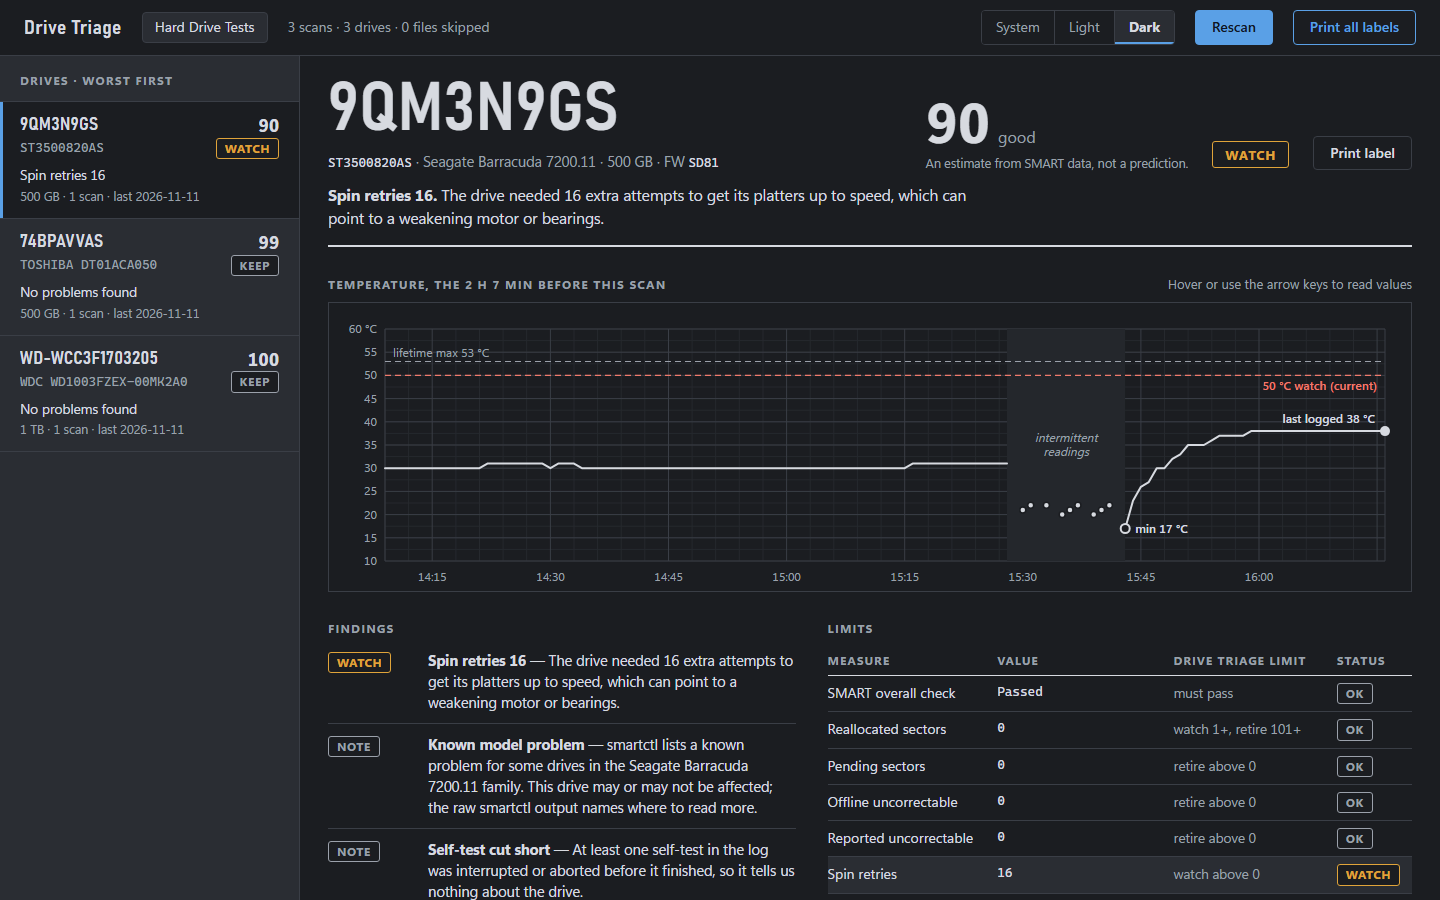
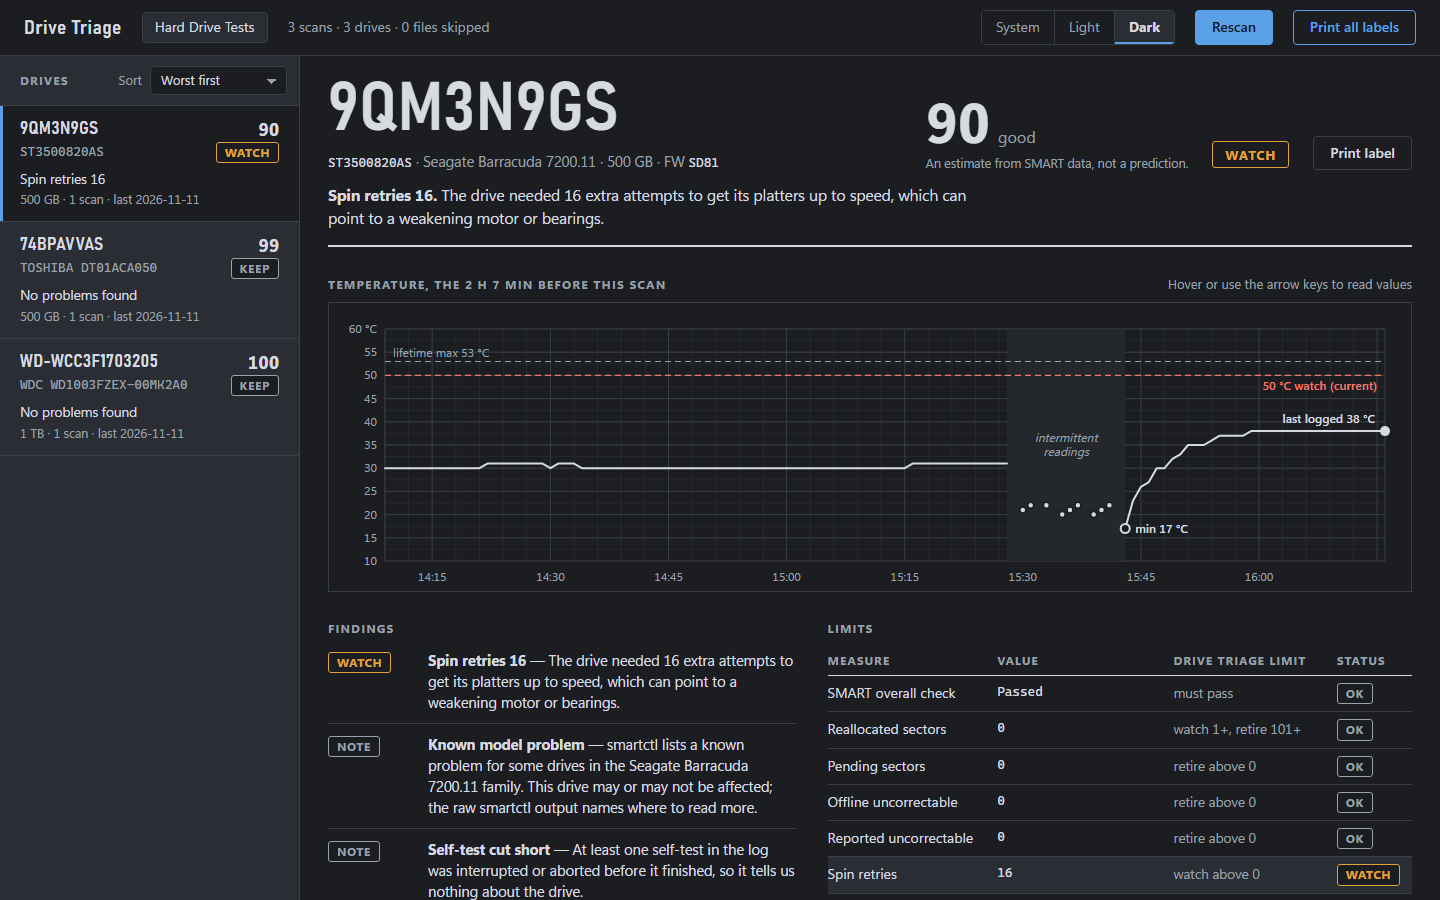
docs: show the sort menu in the README screenshots

diff --git a/README.md b/README.md
@@ -19,7 +19,7 @@ It's a single web page. Use it online or open it from disk. Either way there's n
 
 Light theme:
 
-![Drive Triage in the light theme: a worst-first list of three real drives named by serial number, with the Seagate 9QM3N9GS selected, showing its WATCH verdict, health score 90, temperature curve, findings and limits](docs/images/drive-triage-light.png)
+![Drive Triage in the light theme: a list of three real drives named by serial number, sorted worst first with the Sort menu above it, and the Seagate 9QM3N9GS selected, showing its WATCH verdict, health score 90, temperature curve, findings and limits](docs/images/drive-triage-light.png)
 
 Dark theme:
 
